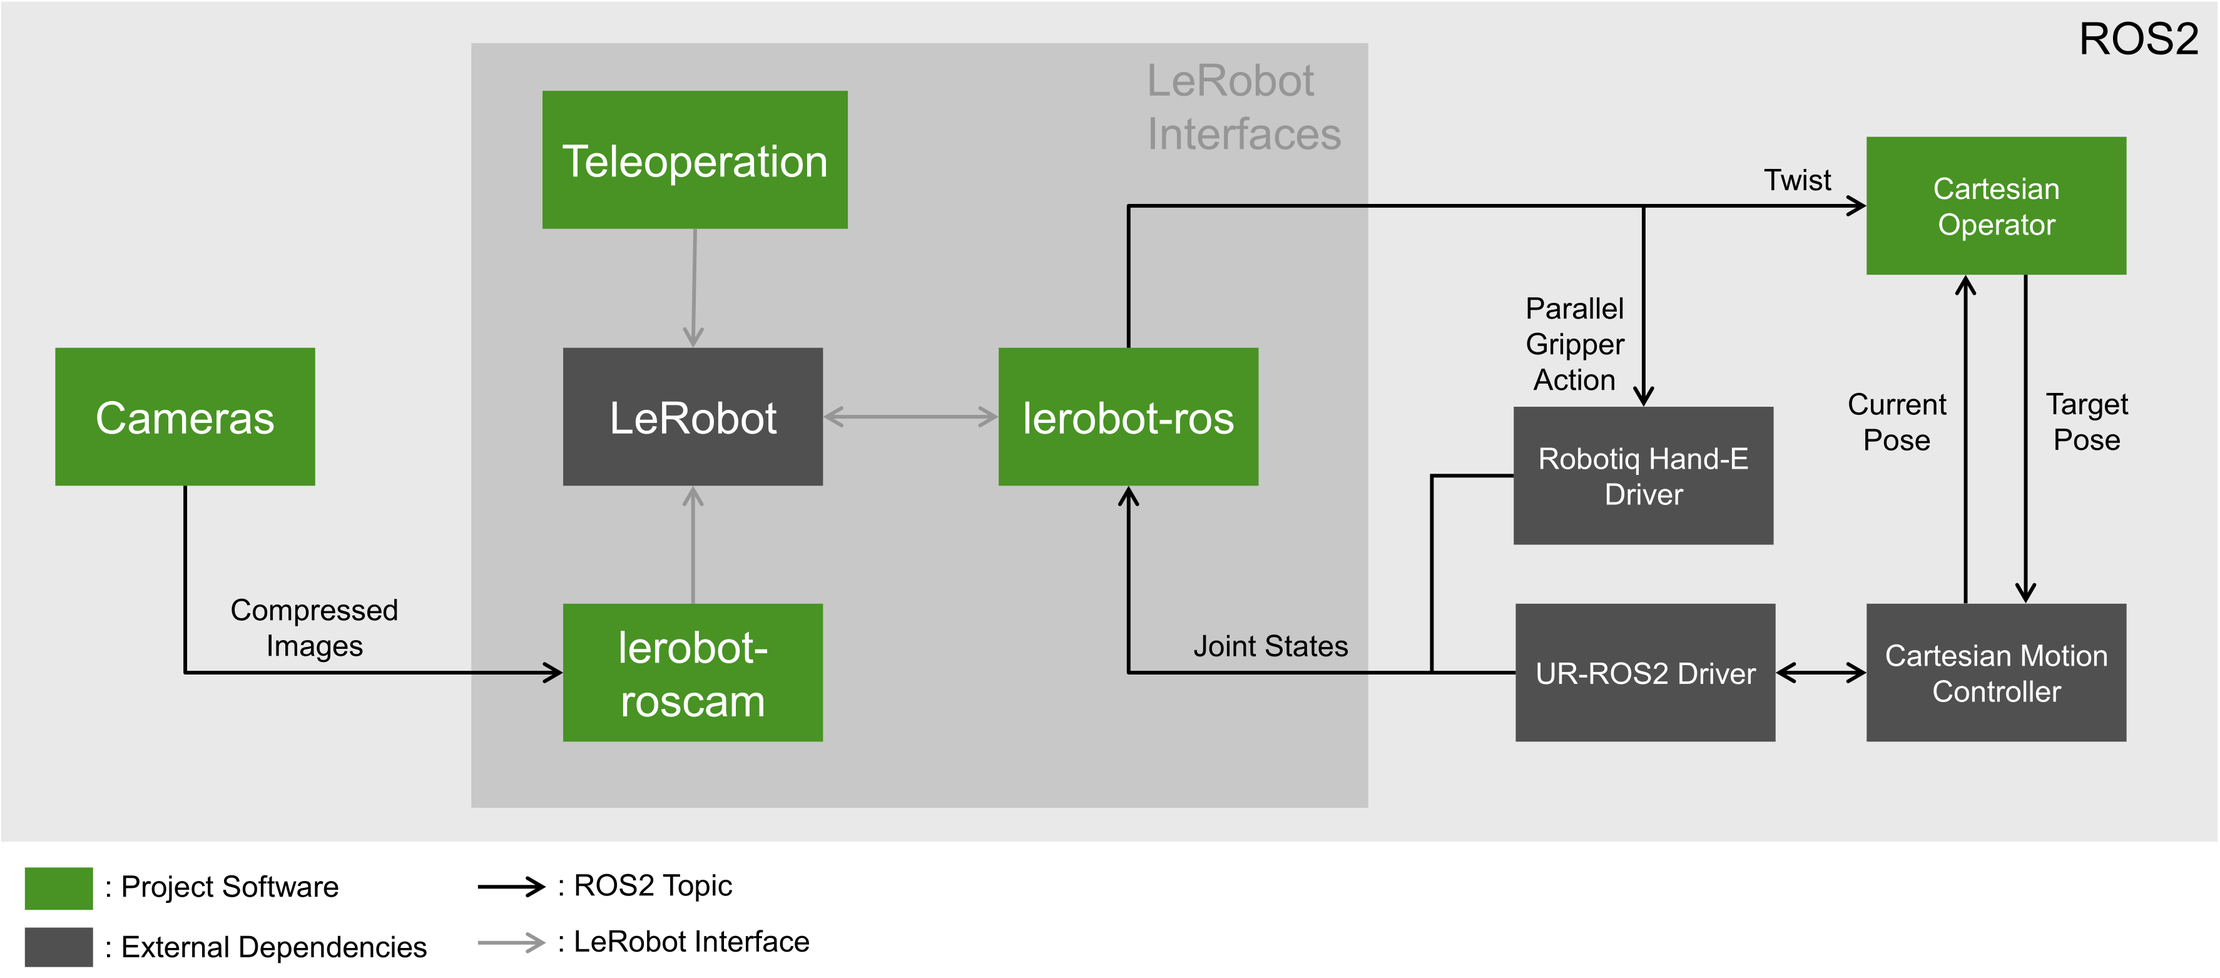
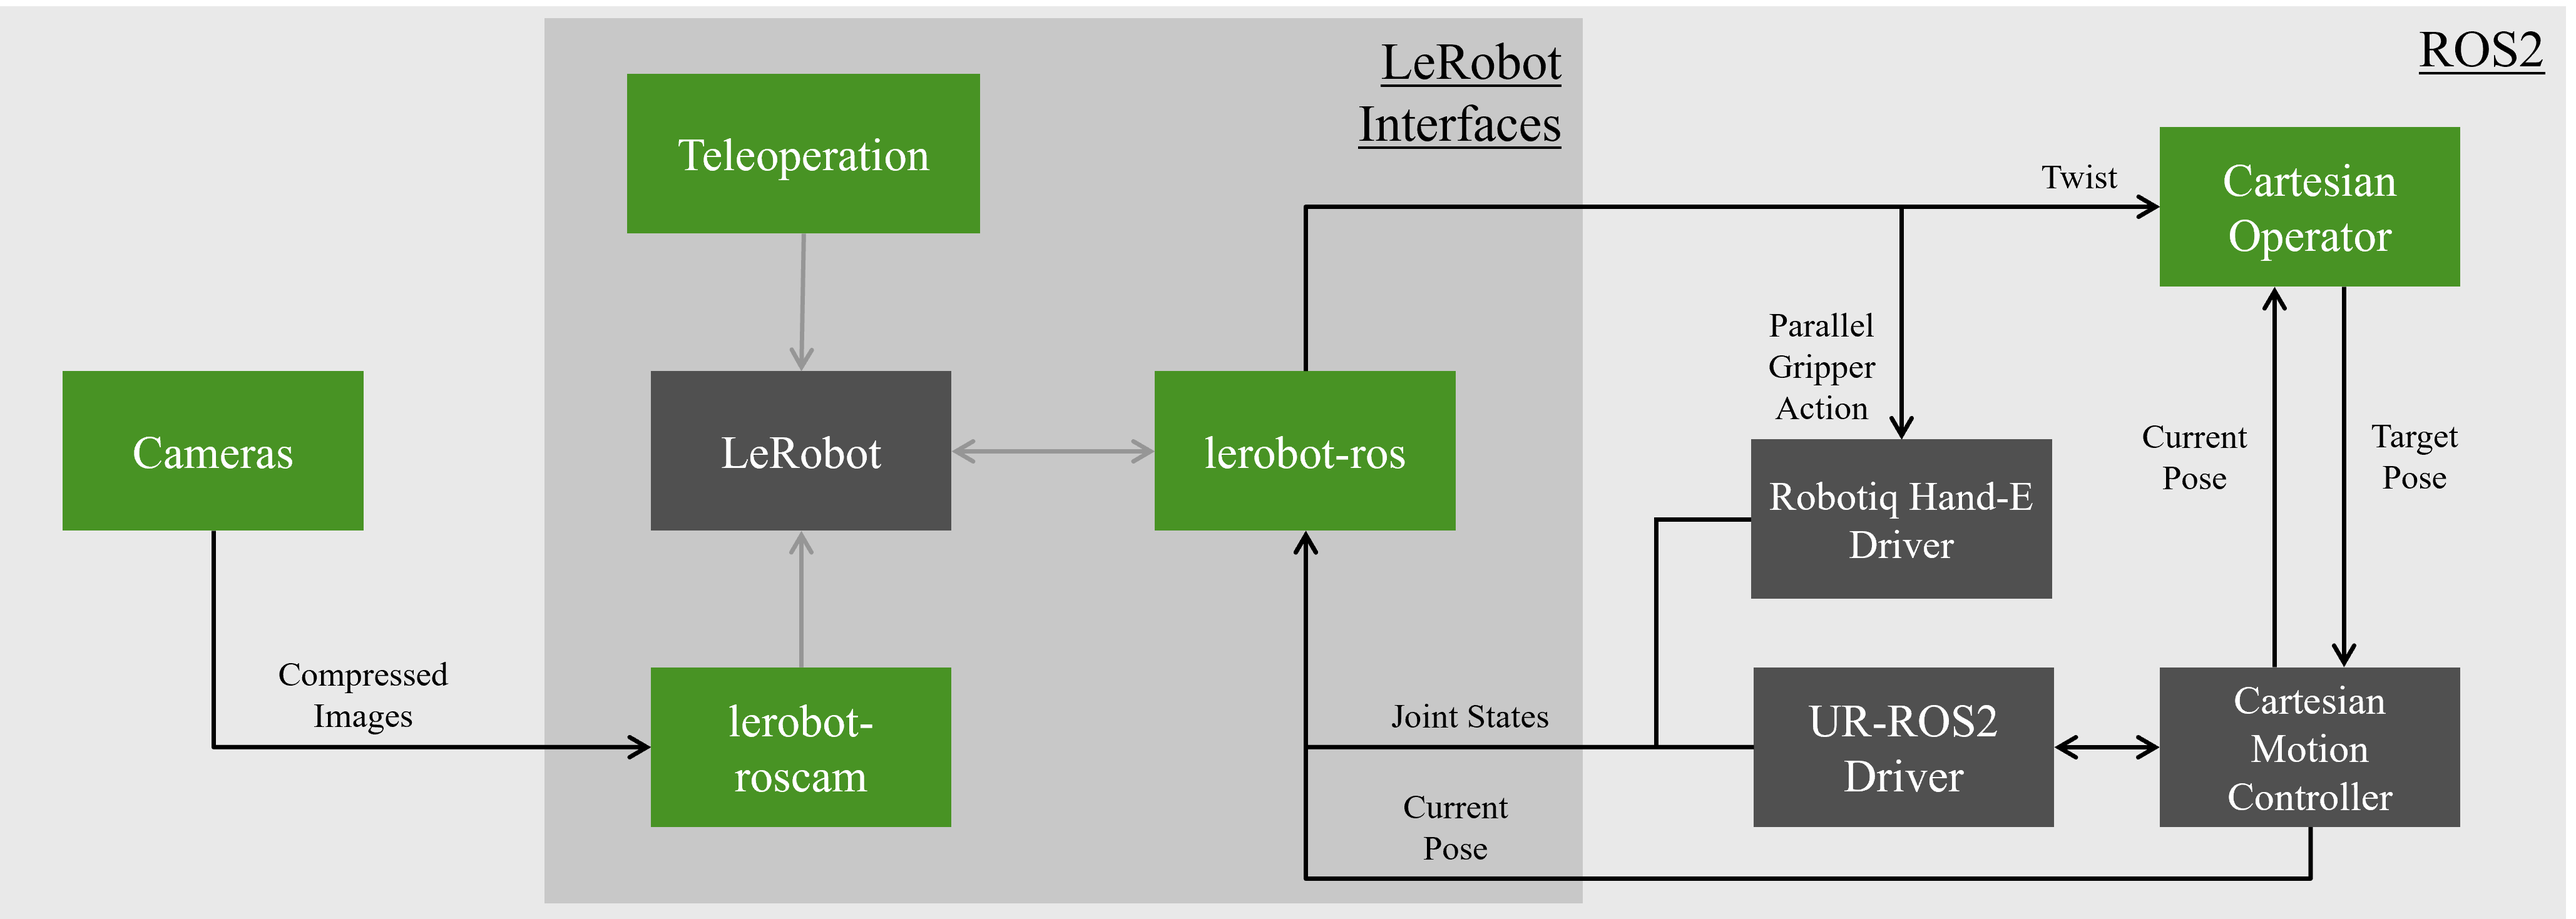
Update ism page (#65)
* updated links and added data

* added deployment link to main README

* minor grammar fix

---------

diff --git a/projects/ism2026_ros2smolvla.md b/projects/ism2026_ros2smolvla.md
@@ -9,12 +9,14 @@ header:
   overlay_image: /assets/projects/ism2026_ros2smolvla/workbench_overview_cropped.jpg
   caption: "Photo credit: Noah Böckmann"
   actions:
-    - label: "📄 Paper"
-      url: "#"
+#    - label: "📄 Paper"
+#      url: "#"
     - label: "💻 Code"
       url: "https://github.com/una-auxme/ur10e_vla_docker"
-    - label: "📊 arXiv"
-      url: "#"
+#    - label: "📊 arXiv"
+#      url: "#"
+    - label: "💾 Data"
+      url: "https://huggingface.co/collections/una-auxme/ros2smolvla"
 excerpt: "ROS2SmolVLA enables industrial-grade lightweight robots to use small Vision-Language-Action (VLA) Models integrated with ROS 2."
 author_profile: false
 toc: false
@@ -98,7 +100,7 @@ toc_sticky: true
 <div class="project-meta">
   <div class="authors">
     <a href="https://scholar.google.de/citations?user=oQEw8bsAAAAJ&hl=de">Nils Mandischer</a>
-    <a>Noah Böckmann</a>
+    <a href="https://www.noahb.de/">Noah Böckmann</a>
     <a>Ludwig Holl</a>
     <a href="https://scholar.google.de/citations?user=-5UzGXkAAAAJ&hl=de">Lars Mikelsons</a>
   </div>
@@ -141,11 +143,15 @@ We present ROS2SmolVLA, a ROS 2-based interface that enables the deployment of H
 
 ### Key Components
 
-- **ROS 2 Interface ([LeRobot-ROS2 interface](https://github.com/una-auxme/lerobot-ros)):** Acts as a lightweight broker between the LeRobot ecosystem and ROS 2, enabling seamless communication between the VLA policy and robot controllers without managing low-level hardware cycles.
-- **Multi-Modal Data Acquisition ([LeRobot-camera interface](https://github.com/una-auxme/lerobot-roscam)):** Standardizes ingestion of asynchronous camera feeds from top, side, and end-effector-mounted cameras, converting them into uncompressed images compatible with SmolVLA’s input requirements.
-- **Containerized Inference ([UR10e VLA Docker](https://github.com/una-auxme/ur10e_vla_docker)):** Isolates dependencies and ensures reproducibility across development, simulation, and production environments, enabling efficient execution on edge devices with consumer-grade hardware.
-- **Simulation Environment ([UR10e simulation in Gazebo](https://github.com/una-auxme/ur10e_vla_sim)):** A Gazebo-based digital twin that replicates the physical robot’s kinematics, camera setup, and workspace layout, enabling pre-validation and policy testing in a simulated environment before real-world deployment.
-- **Real-World Data Collection ([UR10e interface](https://github.com/una-auxme/ur10e_vla_real)):** A dedicated ROS 2 package for capturing high-fidelity, real-world training data from the physical UR10e setup, including synchronized joint states, camera streams, and action trajectories—essential for robust, sim-to-real transfer and model fine-tuning.
+**Data and Model Parameters**
+Training and evaluation datasets and model parameters are available in our Hugging Face collection [ROS2SmolVLA](https://huggingface.co/collections/una-auxme/ros2smolvla).
+
+**Software**
+- **ROS 2 Interface ([LeRobot-ROS2 interface](https://github.com/una-auxme/ros2smolvla_interface_lerobot)):** Acts as a lightweight broker between the LeRobot ecosystem and ROS 2, enabling seamless communication between the VLA policy and robot controllers without managing low-level hardware cycles.
+- **Multi-Modal Data Acquisition ([LeRobot-camera interface](https://github.com/una-auxme/ros2smolvla_interface_camera)):** Standardizes ingestion of asynchronous camera feeds from top, side, and end-effector-mounted cameras, converting them into uncompressed images compatible with SmolVLA’s input requirements.
+- **Containerized Inference ([UR10e VLA Docker](https://github.com/una-auxme/ros2smolvla_docker)):** Isolates dependencies and ensures reproducibility across development, simulation, and production environments, enabling efficient execution on edge devices with consumer-grade hardware.
+- **Simulation Environment ([UR10e simulation in Gazebo](https://github.com/una-auxme/ros2smolvla_ur10e_sim)):** A Gazebo-based digital twin that replicates the physical robot’s kinematics, camera setup, and workspace layout, enabling pre-validation and policy testing in a simulated environment before real-world deployment.
+- **Real-World Data Collection ([UR10e interface](https://github.com/una-auxme/ros2smolvla_ur10e_real)):** A dedicated ROS 2 package for capturing high-fidelity, real-world training data from the physical UR10e setup, including synchronized joint states, camera streams, and action trajectories—essential for robust, sim-to-real transfer and model fine-tuning.
 
 ## Results
 
@@ -164,7 +170,7 @@ The model demonstrated strong spatial reasoning in familiar configurations but s
 @inproceedings{ros2smolvla2026,
     author    = {Mandischer, Nils and B\"{o}ckmann, Noah and Holl, Ludwig and Mikelsons, Lars},
     title     = {ROS2SmolVLA: Enabling Small Vision-Language-Action Models for Integration into Industrial-Grade Lightweight Robots},
-    booktitle = {International Conference on Industry of the Future and Smart Manufacturing, Padua \& Venice, Italy},
+    booktitle = {International Conference on Industry of the Future and Smart Manufacturing},
     year      = {2026}
 }
 </pre>

diff --git a/projects/project-template.md b/projects/project-template.md
@@ -18,6 +18,8 @@ header:
       url: "#"
     - label: "🎥 YouTube"
       url: "#"
+    - label: "💾 Data"
+      url: "#"
 excerpt: "Brief tagline describing the main contribution or key message of your work"
 author_profile: false
 toc: true

diff --git a/README.md b/README.md
@@ -1,1 +1,2 @@
 Wiki at https://github.com/una-auxme/una-auxme.github.io/wiki
+Deployment at https://una-auxme.github.io/
